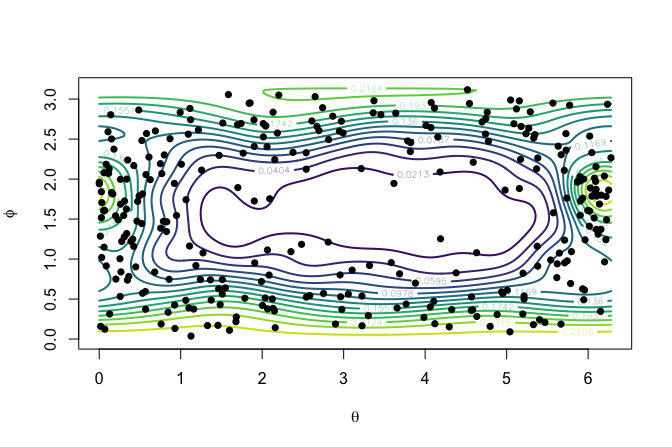
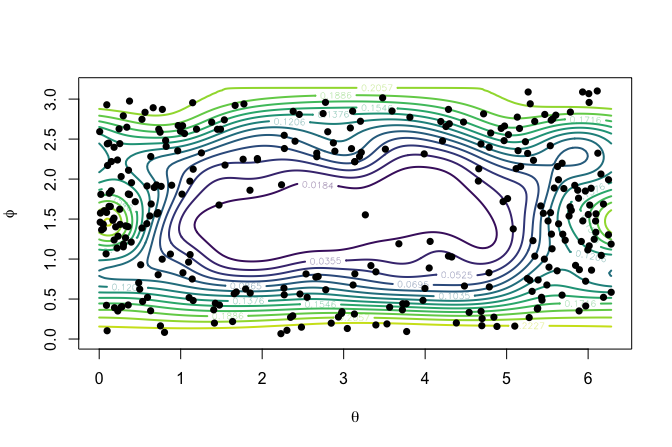
Update README

Changed region(s): [[0.125, 0.1745, 0.9375, 0.7562], [0.5312, 0.4653, 0.5625, 0.4944], [0.4062, 0.4944, 0.4375, 0.5235]]

diff --git a/README.md b/README.md
@@ -13,10 +13,10 @@ status](https://github.com/egarpor/DirStats/workflows/test-coverage/badge.svg)](
 
 ## Overview
 
-Currently implementing nonparametric kernel density estimation,
-bandwidth selection, and other utilities for analyzing directional data.
-Further nonparametric tools expected to be included in subsequent
-releases.
+Implementation of nonparametric kernel density estimation, bandwidth
+selection, and other utilities for analyzing directional data, such as
+stable and fast evaluation of Bessel functions appearing in the von
+Mises–Fisher distribution.
 
 ## Installation
 
@@ -37,7 +37,7 @@ library(DirStats)
 
 The following are examples of the usage of the Bai et al. (1988)’s
 kernel density estimator, the cross-validatory bandwidth selectors in
-Hall et al. (1987), and the plug-in bandwidth selectors in
+Hall et al. (1987), and the plug-in bandwidth selectors in
 García-Portugués (2013).
 
 ### Bandwidth selection
@@ -45,8 +45,8 @@ García-Portugués (2013).
 The bandwidth $`h`$ governs the smoothness of the estimator and is the
 main practical choice to be made. Two families of selectors are
 available: the cross-validatory ones, `bw_dir_lcv` (likelihood) and
-`bw_dir_lscv` (least squares), and the plug-in ones, `bw_dir_rot` (rule
-of thumb), `bw_dir_ami` (asymptotic mixtures) and `bw_dir_emi` (exact
+`bw_dir_lscv` (least squares); and the plug-in ones, `bw_dir_rot` (rule
+of thumb), `bw_dir_ami` (asymptotic mixtures), and `bw_dir_emi` (exact
 mixtures). The last two build on a mixture of von Mises–Fisher
 distributions fitted with `bic_vmf_mix`.
 
@@ -59,18 +59,17 @@ samp <- rbind(rotasym::r_vMF(n = n / 3, mu = c(rep(0, q), 1), kappa = 5),
               rotasym::r_vMF(n = n / 3, mu = c(rep(0, q), -1), kappa = 5),
               rotasym::r_vMF(n = n / 3, mu = c(1, rep(0, q)), kappa = 5))
 
-# Mixture fit required by the AMI and EMI plug-in selectors. It relies on the
-# random starts of movMF::movMF(), so set.seed() beforehand for reproducibility
+# Mixture fit required by the AMI and EMI plug-in selectors
 set.seed(42)
 fit_mix <- bic_vmf_mix(data = samp)
 length(fit_mix$best_fit$p_hat) # Number of fitted components
 #> [1] 3
 
 # The five bandwidth selectors
-bws <- c("ROT"  = bw_dir_rot(data = samp),
-         "AMI"  = bw_dir_ami(data = samp, fit_mix = fit_mix),
-         "EMI"  = bw_dir_emi(data = samp, fit_mix = fit_mix)$h_opt,
-         "LCV"  = bw_dir_lcv(data = samp)$h_opt,
+bws <- c("ROT" = bw_dir_rot(data = samp),
+         "AMI" = bw_dir_ami(data = samp, fit_mix = fit_mix),
+         "EMI" = bw_dir_emi(data = samp, fit_mix = fit_mix)$h_opt,
+         "LCV" = bw_dir_lcv(data = samp)$h_opt,
          "LSCV" = bw_dir_lscv(data = samp)$h_opt)
 round(bws, 4)
 #>    ROT    AMI    EMI    LCV   LSCV 
@@ -83,9 +82,8 @@ performs instead a grid search on `h_grid`, which can be inspected with
 `plot_it = TRUE`.
 
 ``` r
-# Grid search on a grid bounded away from zero, which avoids the spurious
-# minimum of the LSCV loss as h -> 0
-h_grid <- exp(seq(log(0.1), log(1.5), l = 100))
+# Grid search on a grid bounded away from zero
+h_grid <- exp(seq(log(0.05), log(1.5), l = 100))
 par(mfrow = c(1, 3))
 invisible(bw_dir_lcv(data = samp, h_grid = h_grid, optim = FALSE,
                      plot_it = TRUE)); title("LCV")
@@ -97,14 +95,9 @@ invisible(bw_dir_emi(data = samp, fit_mix = fit_mix, h_grid = h_grid,
 
 <img src="README/README-bws-diag-1.png" alt="" style="display: block; margin: auto;" />
 
-Beware that `bw_dir_lscv` and `bw_dir_emi` integrate by Monte Carlo when
-$`q > 2`$, so their outputs are random unless `set.seed` is called
-first.
-
 Since the sampling density is known in this example, the selectors can
-be compared through the Integrated Squared Error of the estimators they
-yield. The integration on $`\mathbb{S}^2`$ is done with the Lebedev
-quadrature in `int_sph`.
+be compared through the integrated squared error of the estimators they
+yield.
 
 ``` r
 # True density
@@ -149,13 +142,39 @@ kde <- kde_dir(x = x, data = samp, h = bws["EMI"])
 
 # Visualization
 contour(x = th, y = phi, z = matrix(kde, nrow = l, ncol = l / 2),
-        col = viridisLite::viridis(15), 
-        levels = round(seq(min(kde), max(kde), length.out = 15), 4), 
+        col = viridisLite::viridis(15),
+        levels = round(seq(min(kde), max(kde), length.out = 15), 4),
         lwd = 2, xlab = expression(theta), ylab = expression(phi))
 points(to_rad(samp), pch = 16)
 ```
 
 <img src="README/README-kde-1.png" alt="" style="display: block; margin: auto;" />
+
+### Bessel functions
+
+`log_besselI_scaled()` evaluates $`\log(e^{-x}\mathcal{I}_\nu(x))`$ in a
+stable way for either large orders $`\nu`$ or large arguments $`x`$.
+
+``` r
+# Evaluation across several orders and a wide range of arguments
+x <- 10^seq(-2, 6, l = 200)
+nu <- c(0.5, 5, 50, 500)
+log_bessel_direct <- sapply(nu, function(n)
+  log(besselI(x = x, nu = n, expon.scaled = TRUE)))
+log_bessel <- sapply(nu, function(n) log_besselI_scaled(nu = n, x = x))
+
+# The solid curves are the direct evaluations, which break down for
+# large nu and small x, and for large x
+col <- viridisLite::viridis(length(nu), end = 0.9)
+matplot(log10(x), log1p(abs(log_bessel)), type = "l", lty = 2, lwd = 2,
+        col = col, xlab = expression(log[10](x)),
+        ylab = expression(log1p(abs(log(e^-x * I[nu](x))))))
+matlines(log10(x), log1p(abs(log_bessel_direct)), lty = 1, lwd = 2, col = col)
+legend("topright", legend = sapply(nu, function(n) bquote(nu == .(n))),
+       lwd = 2, col = col)
+```
+
+<img src="README/README-bessel-plot-1.png" alt="" style="display: block; margin: auto;" />
 
 ## References
 
